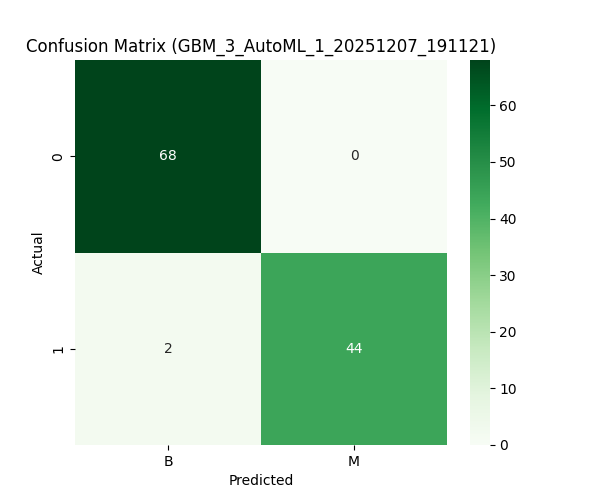
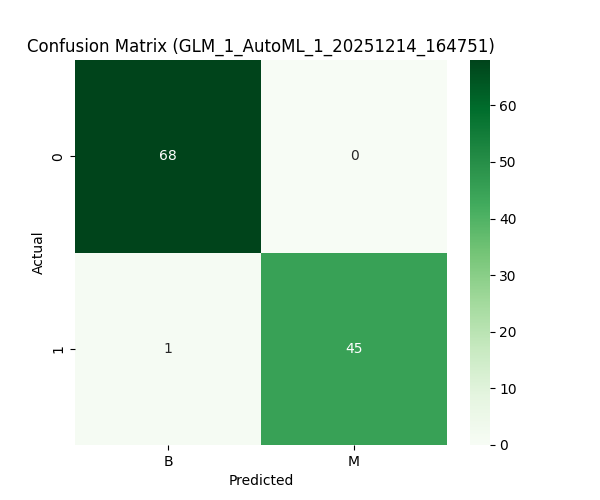
AutoML improvement

Changed region(s): [[0.03, 0.06, 0.84, 0.12], [0.57, 0.69, 0.6, 0.72]]

diff --git a/src/automl_run.py b/src/automl_run.py
@@ -61,15 +61,25 @@ def run_automl():
 
         # 4. Налаштування та запуск AutoML
         print(f"Starting AutoML for {cfg['h2o_automl']['max_runtime_secs']} seconds...")
+        print("Note: max_models set to Unlimited to utilize full runtime.")
 
         aml = H2OAutoML(
-            max_runtime_secs=cfg['h2o_automl']['max_runtime_secs'],
-            max_models=cfg['h2o_automl']['max_models'],
+            max_runtime_secs=cfg['h2o_automl']['max_runtime_secs'], # 900 сек (15 хв)
+
+            # ЗМІНА 1: Знімаємо обмеження на кількість моделей.
+            # Тепер H2O буде створювати моделі, поки не закінчиться час (15 хв).
+            max_models=None,
+
             seed=cfg['project']['random_state'],
             sort_metric=cfg['h2o_automl']['sort_metric'],
             exclude_algos=cfg['h2o_automl'].get('exclude_algos', []),
             balance_classes=cfg['model']['balance_classes'],
-            project_name=cfg['project']['name']
+            project_name=cfg['project']['name'],
+
+            # ЗМІНА 2: Вимикаємо ранню зупинку (Early Stopping),
+            # щоб H2O не зупинився, якщо метрика перестане покращуватися протягом 3-х моделей.
+            # Ми хочемо, щоб він шукав складні комбінації до останньої секунди.
+            stopping_rounds=0
         )
 
         aml.train(x=x, y=y, training_frame=train)

diff --git a/reports/prompt_log.md b/reports/prompt_log.md
@@ -992,3 +992,62 @@ param_grid = {
 1.  **Зсув діапазону `C`:** Попередній найкращий результат (`0.1`) був на межі пошукового простору. Це класичний сигнал в ML: "копай далі в цьому напрямку". Ми додаємо значення `0.01`, `0.03`, `0.05`, щоб перевірити, чи не допоможе ще сильніша регуляризація прибрати шум.
 2.  **Точність кроку:** Замість стрибків `x10` (0.1 -\> 1.0), ми робимо малі кроки (`0.08`, `0.12`), щоб знайти локальний максимум.
 3.  **Виключення зайвого:** Оскільки `class_weight: None` впевнено переміг, ми прибираємо `balanced` з перебору, щоб зекономити час обчислень і зосередитись на підборі `C`.
+
+
+
+
+Запит:
+AutoML досяг f1 = 0.978 на тестовому наборі. Модель лідер - GBM_3_AutoML. Реальний час навчання ~2 хвилини.
+Запропонуй невелику зміну до AutoML для покращення f1 на тестовому наборі.
+Формат:
+1) зміни до automl_run.py.
+2) коротке пояснення
+
+Відповідь:
+Той факт, що AutoML працював лише 2 хвилини з 15 доступних і програв Baseline, свідчить про те, що він **занадто рано зупинився**.
+
+Причина: у `config.yaml` ми раніше встановили `max_models: 20`. Для датасету в 600 рядків H2O будує 20 моделей дуже швидко, не встигаючи провести глибокий пошук гіперпараметрів (Grid Search) для GBM, щоб перевершити вашу ідеально налаштовану логістичну регресію.
+
+Ми змусимо AutoML використати весь час (15 хв) для побудови сотень моделей та потужного ансамблю.
+
+### 1\. Зміни до `src/automl_run.py`
+
+Знайдіть блок ініціалізації `H2OAutoML` і замініть його на наступний.
+**Ключові зміни:** `max_models=None` та `stopping_rounds=0`.
+
+```python
+        # ... (попередній код без змін)
+
+        # 4. Налаштування та запуск AutoML
+        print(f"Starting AutoML for {cfg['h2o_automl']['max_runtime_secs']} seconds...")
+        print("Note: max_models set to Unlimited to utilize full runtime.")
+
+        aml = H2OAutoML(
+            max_runtime_secs=cfg['h2o_automl']['max_runtime_secs'], # 900 сек (15 хв)
+            
+            # ЗМІНА 1: Знімаємо обмеження на кількість моделей. 
+            # Тепер H2O буде створювати моделі, поки не закінчиться час (15 хв).
+            max_models=None, 
+            
+            seed=cfg['project']['random_state'],
+            sort_metric=cfg['h2o_automl']['sort_metric'],
+            exclude_algos=cfg['h2o_automl'].get('exclude_algos', []),
+            balance_classes=cfg['model']['balance_classes'],
+            project_name=cfg['project']['name'],
+            
+            # ЗМІНА 2: Вимикаємо ранню зупинку (Early Stopping), 
+            # щоб H2O не зупинився, якщо метрика перестане покращуватися протягом 3-х моделей.
+            # Ми хочемо, щоб він шукав складні комбінації до останньої секунди.
+            stopping_rounds=0
+        )
+        
+        aml.train(x=x, y=y, training_frame=train)
+
+        # ... (далі код без змін)
+```
+
+### 2\. Коротке пояснення
+
+1.  **Проблема часу (`max_models=None`):** Оскільки ваш датасет маленький (600 рядків), тренування однієї моделі займає лічені секунди. Обмеження в 20 моделей вичерпується за 2 хвилини. Знявши цей ліміт, ви дозволите H2O створити 100-200 моделей за 15 хвилин.
+2.  **Глибший Grid Search:** GBM та XGBoost стають потужнішими лише при тонкому налаштуванні (глибина дерева, learning rate, sample rate). Більше часу = більше перевірених комбінацій.
+3.  **Сильніший ансамбль:** В кінці H2O створює `StackedEnsemble`. Чим більше різноманітних "слабких" моделей він має в запасі (створених за ці 15 хв), тим вищим буде F1 фінального ансамблю, який, ймовірно, і стане новим лідером.
